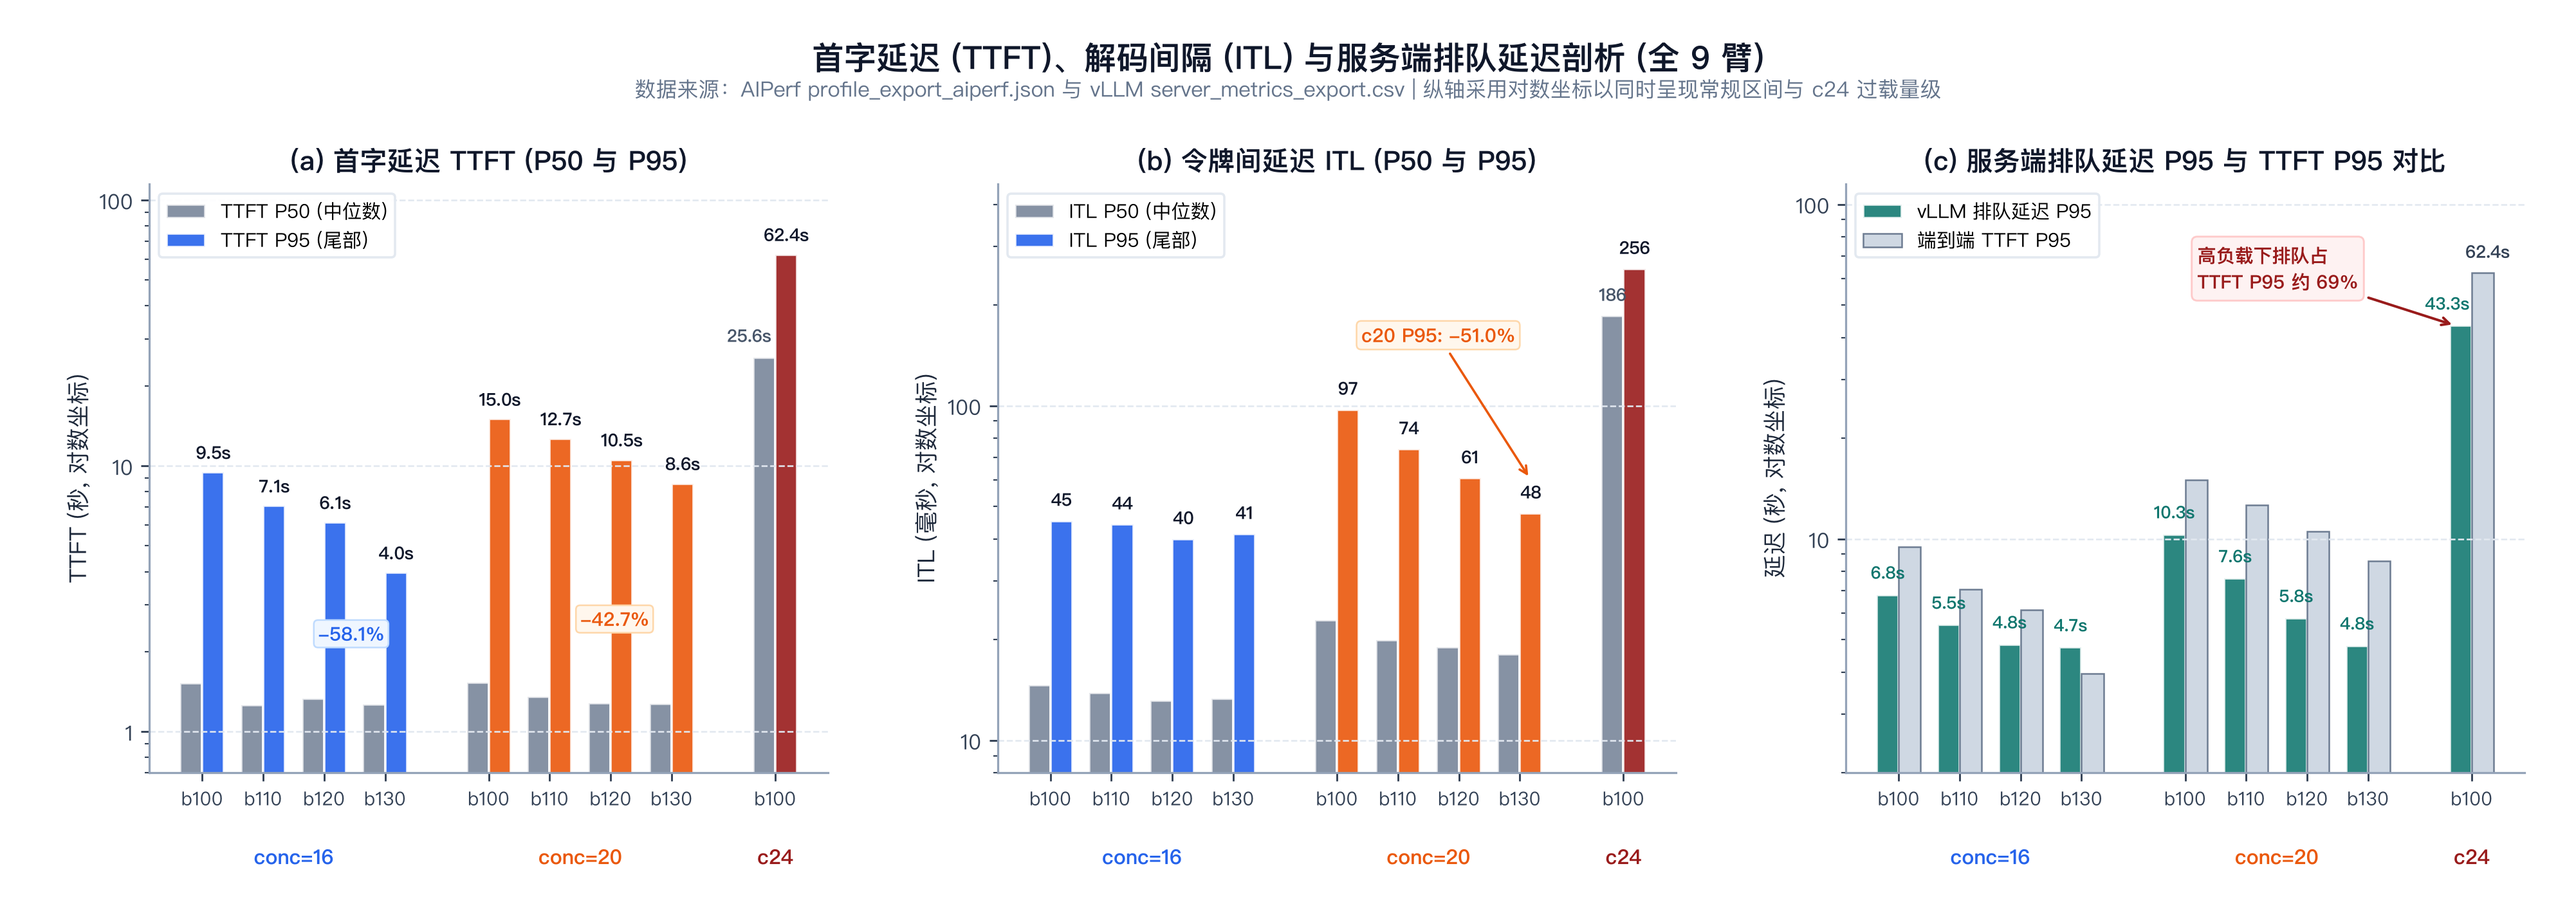
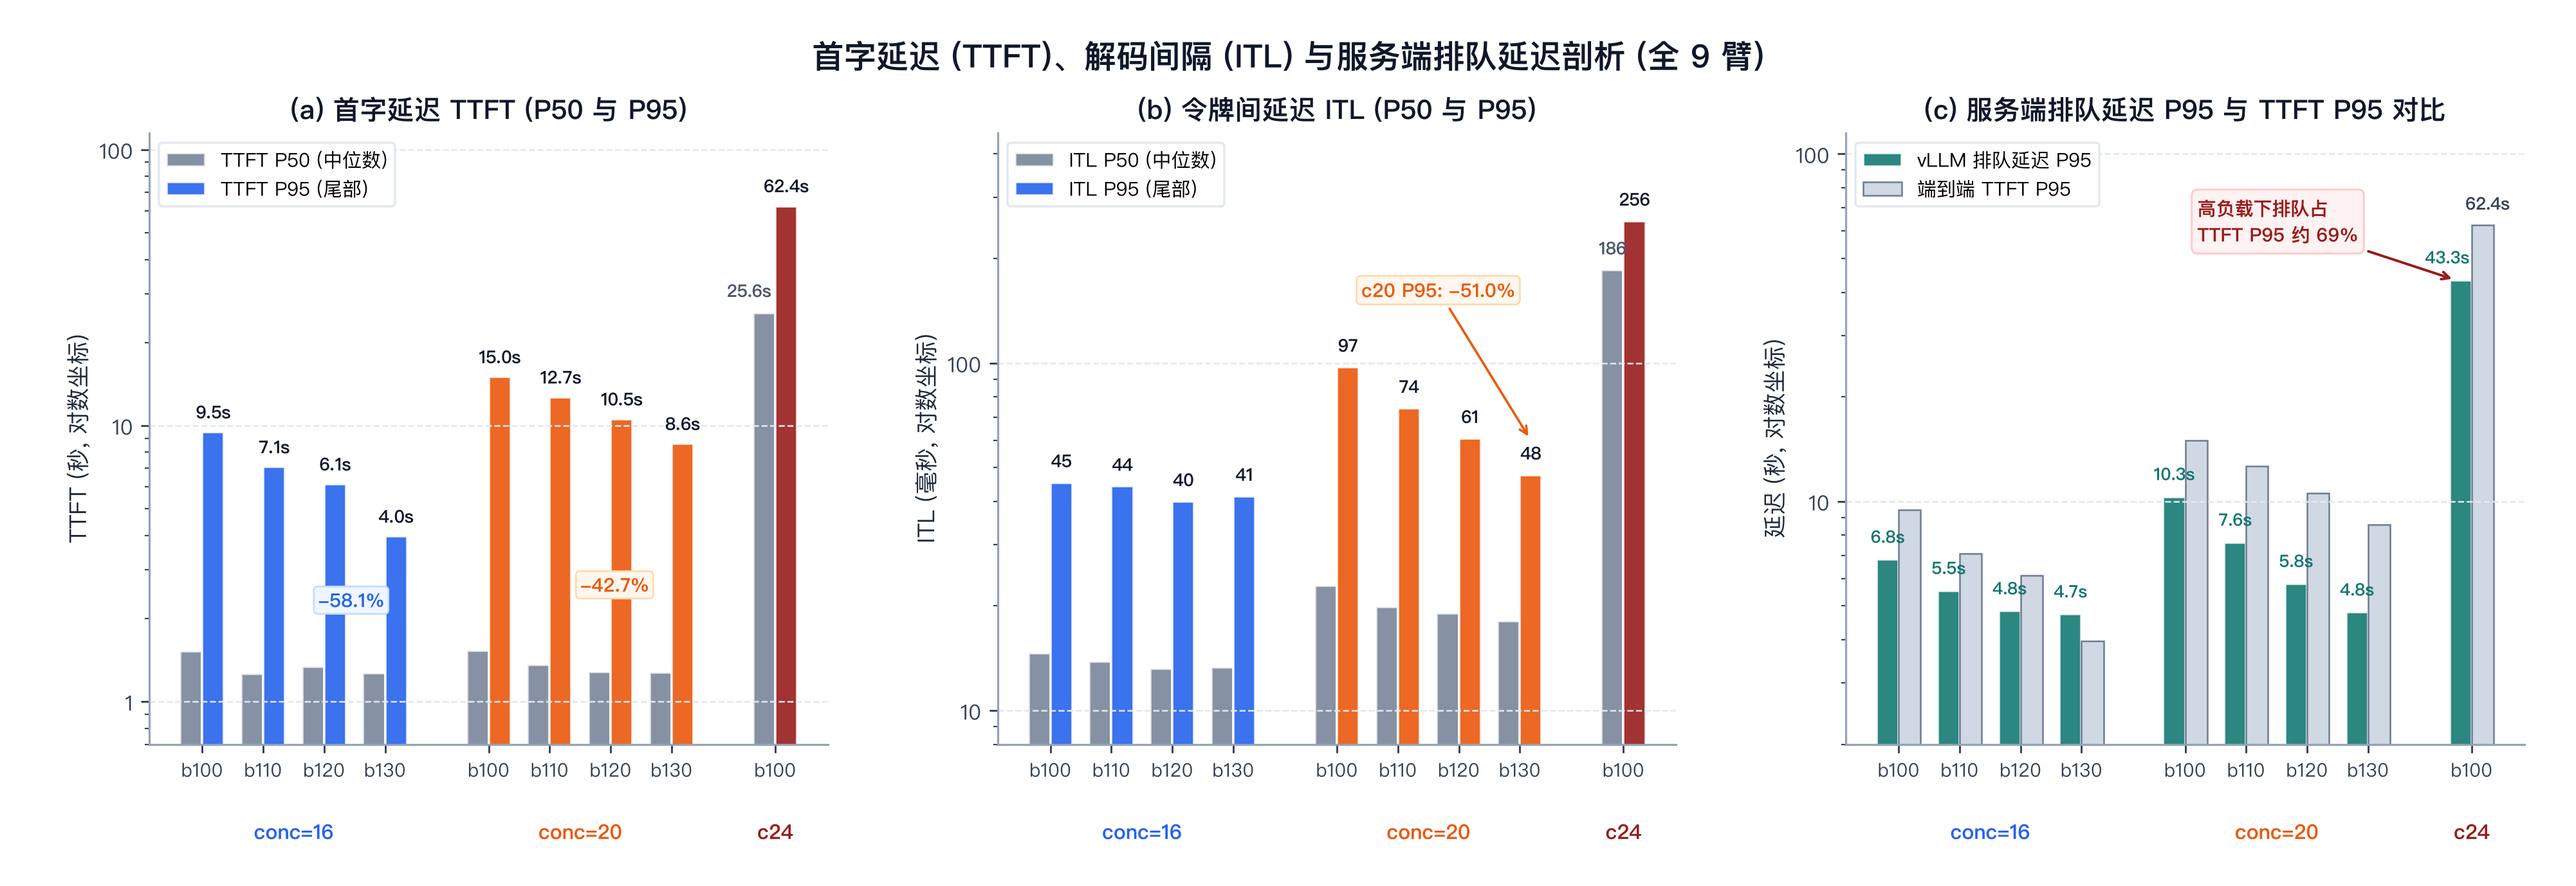
docs(ai-infra): 移除图表副标题数据来源说明与正文图注

diff --git a/scripts/plot_qwen38.py b/scripts/plot_qwen38.py
@@ -228,22 +228,14 @@ def plot_fig1_throughput_scaling(records: list[dict[str, Any]]) -> None:
     c20 = [r for r in records if r["conc"] == 20]
     c24 = [r for r in records if r["conc"] == 24][0]
 
-    fig, axes = plt.subplots(2, 2, figsize=(13.5, 9.4), dpi=260)
-    fig.subplots_adjust(left=0.075, right=0.935, top=0.875, bottom=0.085, wspace=0.25, hspace=0.35)
+    fig, axes = plt.subplots(2, 2, figsize=(13.5, 9.2), dpi=260)
+    fig.subplots_adjust(left=0.075, right=0.935, top=0.905, bottom=0.085, wspace=0.25, hspace=0.35)
     fig.suptitle(
-        "Qwen38-Flash-Next 多并发 KV Cache 预算扩展吞吐与边际效率分析 (1800s 正式窗口)",
+        "Qwen3.8-Flash-Next 多并发 KV Cache 预算扩展吞吐与边际效率分析 (1800s 正式窗口)",
         fontsize=14,
         fontweight="bold",
         color="#0F172A",
         y=0.965,
-    )
-    fig.text(
-        0.5,
-        0.926,
-        "4×GPU TP4 | 基准 KV 预算 1.00× = 25.8 GiB/卡 | 统一口径：1800s 窗口内完成请求的可见输出 token/s",
-        ha="center",
-        fontsize=9.5,
-        color=MUTED,
     )
 
     # --- Panel (a): Output throughput vs KV budget ---
@@ -484,22 +476,14 @@ def plot_fig2_timeseries(records: list[dict[str, Any]]) -> None:
 
     ts_map = {lbl: load_timeseries(by_label[lbl]) for lbl, *_ in selected}
 
-    fig, axes = plt.subplots(3, 1, figsize=(13.2, 9.6), dpi=260, sharex=True)
-    fig.subplots_adjust(left=0.075, right=0.80, top=0.895, bottom=0.075, hspace=0.22)
+    fig, axes = plt.subplots(3, 1, figsize=(13.2, 9.4), dpi=260, sharex=True)
+    fig.subplots_adjust(left=0.075, right=0.80, top=0.92, bottom=0.075, hspace=0.22)
     fig.suptitle(
         "1800s 正式压测窗口内部动态时序：KV 利用率、等待队列与前缀缓存命中率",
         fontsize=13.8,
         fontweight="bold",
         color="#0F172A",
-        y=0.96,
-    )
-    fig.text(
-        0.44,
-        0.922,
-        "数据来源：vLLM Engine 000 10s 级运行日志 (server.log.gz)，已严格对齐各臂 normalization.json 窗口起点 t = 0 min",
-        ha="center",
-        fontsize=9.2,
-        color=MUTED,
+        y=0.965,
     )
 
     # --- Panel (a): GPU KV Cache Usage (%) ---
@@ -641,22 +625,14 @@ def plot_fig3_mechanism_phase(records: list[dict[str, Any]]) -> None:
     c20 = [r for r in records if r["conc"] == 20]
     c24 = [r for r in records if r["conc"] == 24][0]
 
-    fig, axes = plt.subplots(1, 3, figsize=(15.2, 5.4), dpi=260)
-    fig.subplots_adjust(left=0.058, right=0.98, top=0.80, bottom=0.145, wspace=0.22)
+    fig, axes = plt.subplots(1, 3, figsize=(15.2, 5.2), dpi=260)
+    fig.subplots_adjust(left=0.058, right=0.98, top=0.85, bottom=0.145, wspace=0.22)
     fig.suptitle(
         "KV 预算影响吞吐的因果机制相图：9 组正式实验臂的全景映射",
         fontsize=13.8,
         fontweight="bold",
         color="#0F172A",
         y=0.955,
-    )
-    fig.text(
-        0.5,
-        0.895,
-        "箭头方向表示 KV 预算从 1.00× 扩展至 1.30× 的状态迁移轨迹；并发升高使工作点向右/左下移入容量受限区",
-        ha="center",
-        fontsize=9.3,
-        color=MUTED,
     )
 
     # --- Panel (a): KV P95 Utilization vs Throughput (with regime zones) ---
@@ -808,22 +784,14 @@ def plot_fig4_latency_breakdown(records: list[dict[str, Any]]) -> None:
     c20 = [r for r in records if r["conc"] == 20]
     c24 = [r for r in records if r["conc"] == 24][0]
 
-    fig, axes = plt.subplots(1, 3, figsize=(15.4, 5.5), dpi=260)
-    fig.subplots_adjust(left=0.058, right=0.98, top=0.80, bottom=0.16, wspace=0.25)
+    fig, axes = plt.subplots(1, 3, figsize=(15.4, 5.3), dpi=260)
+    fig.subplots_adjust(left=0.058, right=0.98, top=0.85, bottom=0.16, wspace=0.25)
     fig.suptitle(
         "首字延迟 (TTFT)、解码间隔 (ITL) 与服务端排队延迟剖析 (全 9 臂)",
         fontsize=13.8,
         fontweight="bold",
         color="#0F172A",
         y=0.955,
-    )
-    fig.text(
-        0.5,
-        0.895,
-        "数据来源：AIPerf profile_export_aiperf.json 与 vLLM server_metrics_export.csv | 纵轴采用对数坐标以同时呈现常规区间与 c24 过载量级",
-        ha="center",
-        fontsize=9.1,
-        color=MUTED,
     )
 
     xs = np.array([0, 1, 2, 3, 4.7, 5.7, 6.7, 7.7, 9.4])

diff --git a/docs/notes/ai-infra/qwen38-kv-budget.md b/docs/notes/ai-infra/qwen38-kv-budget.md
@@ -73,8 +73,6 @@ description: 在 AgentX 长上下文负载下，实测 Qwen3.8-Flash-Next-FP8（
 
 ![多并发 KV 预算扩展吞吐与边际效率分析](/img/qwen38/qwen38_throughput_scaling.png)
 
-*图 1：Qwen3.8-Flash-Next 在并发 16、20 与 24（单臂）下的吞吐扩展对比。(a) 可见输出吞吐随每卡 KV 预算变化；(b) 相对各自 `1.0B0` 基线的吞吐增益与 1:1 线性参考线对比；(c) 各扩容档位的边际转换比；(d) 1800 秒窗口内完成请求数（左轴柱状）与含 reasoning 在内的全量输出吞吐（右轴折线）。*
-
 ### 3.1 跨并发汇总
 
 | 并发 | `1.0B0` 吞吐 (tok/s) | `+10%` 增益（转换比） | `+20%` 增益（转换比） | `+30%` 增益（转换比） | `1.0B0` KV P95 / 峰值 | 工作区间特征 |
@@ -135,8 +133,6 @@ description: 在 AgentX 长上下文负载下，实测 Qwen3.8-Flash-Next-FP8（
 
 ![1800 秒压测窗口内部动态时序](/img/qwen38/qwen38_timeseries_dynamics.png)
 
-*图 2：四个代表臂在 1800 秒正式窗口内的引擎时序演化（来源：`server.log.gz` 10 秒级采样）。(a) GPU KV cache 实时利用率，虚线标示 80% 高负载警戒线；(b) 调度器等待队列深度（Waiting Requests）；(c) 累积 Prefix Cache 命中率。*
-
 结合三个子图可以清晰看到窗口内的动态演变：
 
 1. **前 5 分钟的起量与分叉**：0 至 5 分钟处于轨迹起步阶段，四条曲线的 KV 利用率都在 30% 以下，等待队列为 0，前缀缓存命中率均在 80%–85% 之间。第 5 分钟后长上下文会话集中涌入，四个工况迅速分化。
@@ -168,8 +164,6 @@ description: 在 AgentX 长上下文负载下，实测 Qwen3.8-Flash-Next-FP8（
 
 ![KV 预算影响吞吐的因果机制相图](/img/qwen38/qwen38_mechanism_phase_diagram.png)
 
-*图 3：9 个正式实验臂的因果机制相图。箭头方向表示 KV 预算从 `1.00×` 增至 `1.30×` 的状态迁移。(a) GPU KV P95 利用率 vs 可见输出吞吐，按 60% 和 80% 划分三个工作区间；(b) 全窗口 Prefix Cache 命中率 vs 可见输出吞吐；(c) 平均等待请求数（对数坐标）vs 可见输出吞吐，附带关键臂的 vLLM Queue P95 延迟。*
-
 图 3(a) 清楚地标出了并发 16 与并发 20 的本质差别：并发 16 的全部四个点（KV P95 42.2%–58.1%）都落在左侧的 KV 充裕区（< 60%），增加预算只是把工作点进一步向左推，吞吐几乎走平；并发 20 从 `b100`（KV P95 76.5%）起步，正好位于中间的容量受限区（60%–80%），每加 10% 预算都将工作点沿陡峭斜率向左上方拉升，直到 `b130`（KV P95 54.8%）才重新跨回充裕区；而 `c24-b100`（KV P95 94.7%）则孤立在右侧的过载退化区（≥ 80%）。图 3(b) 中全部 9 个点沿 Prefix Cache 命中率（54.8% → 91.8%）呈现高度单调的正相关，验证了前缀缓存保留能力是预算转化为吞吐的核心中介变量。
 
 ## 五、端到端延迟与服务端排队剖析
@@ -177,8 +171,6 @@ description: 在 AgentX 长上下文负载下，实测 Qwen3.8-Flash-Next-FP8（
 除了吞吐指标，客户端 `profile_export_aiperf.json` 与服务端 `server_metrics_export.csv` 还记录了全 9 臂的 TTFT（首字延迟）、ITL（令牌间解码延迟）、E2E（端到端请求延迟）与服务端排队延迟（`vllm:request_queue_time_seconds`）。
 
 ![首字延迟、解码间隔与服务端排队延迟剖析](/img/qwen38/qwen38_latency_tail_breakdown.png)
-
-*图 4：全 9 臂延迟分位数与排队耗时拆解（纵轴采用对数坐标）。(a) 客户端端到端 TTFT 的 P50 与 P95；(b) 解码间隔 ITL 的 P50 与 P95；(c) 服务端 vLLM 排队延迟 P95 与端到端 TTFT P95 的对照。*
 
 全 9 臂的延迟分位数明细如下：
 
